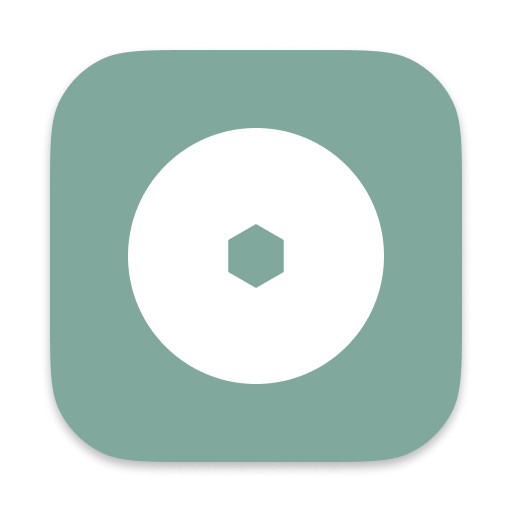
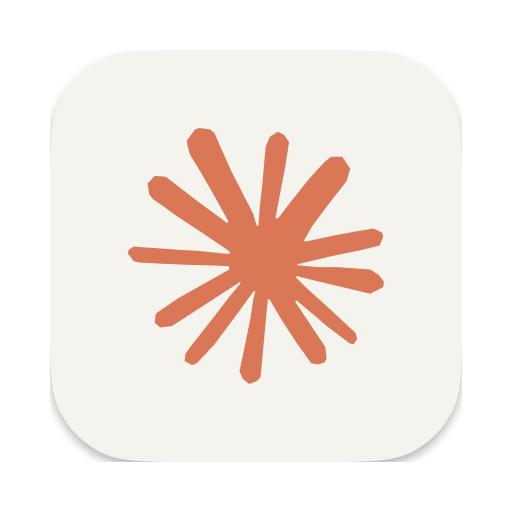
use claude

diff --git a/index.js b/index.js
@@ -16,6 +16,9 @@ const path = require("path");
 const log = require("electron-log");
 const isDev = require("electron-is-dev");
 
+log.transports.file.level = "debug";
+log.transports.console.level = "debug";
+
 const packageJsonPath = path.join(__dirname, "package.json");
 const packageJson = JSON.parse(fs.readFileSync(packageJsonPath, "utf8"));
 
@@ -40,7 +43,7 @@ const windowSizes = {
 
 // Application State
 let mainWindow;
-let chatGptBrowserView;
+let browserView;
 
 // Application Ready
 app.on("ready", async () => {
@@ -98,25 +101,81 @@ function getWindowConfig(size) {
 
 // Setup Browser View
 function setupBrowserView(size) {
-  chatGptBrowserView = new BrowserView({
-    webPreferences: { nodeIntegration: false, contextIsolation: true },
+  browserView = new BrowserView({
+    webPreferences: {
+      nodeIntegration: false,
+      contextIsolation: true,
+      webSecurity: true,
+    },
   });
-  mainWindow.setBrowserView(chatGptBrowserView);
-  chatGptBrowserView.setBounds({
+  mainWindow.setBrowserView(browserView);
+  browserView.setBounds({
     x: 0,
     y: 50,
     width: size.width,
     height: size.height - 50,
   });
-  chatGptBrowserView.webContents.loadURL("https://chat.openai.com/");
-  chatGptBrowserView.webContents.setWindowOpenHandler(({ url }) => {
-    if (url.startsWith("https://chat.openai.com/g/")) {
-      chatGptBrowserView.webContents.loadURL(url);
+  browserView.webContents.loadURL("https://claude.ai/");
+  browserView.webContents.on("dom-ready", (event) => {
+    log.debug("DOM is ready");
+    browserView.webContents
+      .executeJavaScript(
+        `
+        (function() {
+          let alertShown = false;
+
+
+          function showAlert() {
+            if (!alertShown) {
+              alert('Please sign in with email instead.');
+
+              alertShown = true;
+              setTimeout(() => {
+                alertShown = false;
+              }, 500);
+            }
+          }
+  
+          function setupListeners() {
+            console.log('Setting up listeners');
+            
+            document.body.addEventListener('click', (event) => {
+              console.log('Body click event:', event.target);
+              if (event.target.matches('button[data-testid="login-with-google"]')) {
+                console.log('Google login button clicked (from body listener)');
+                showAlert();
+              }
+            }, true);
+          }
+  
+          setupListeners();
+        })();
+      `
+      )
+      .catch((err) => {
+        log.error("Error executing JavaScript:", err);
+      });
+  });
+
+  browserView.webContents.on(
+    "console-message",
+    (event, level, message, line, sourceId) => {
+      log.debug(`Console message from webContents (${level}): ${message}`);
+    }
+  );
+
+  browserView.webContents.setWindowOpenHandler(({ url }) => {
+    if (
+      url.startsWith("https://accounts.google.com/") ||
+      url.includes("google.com/signin/") ||
+      url.includes("accounts.google.com/o/oauth2/")
+    ) {
+      // browserView.webContents.loadURL(url);
+      return { action: "deny" };
     } else {
       shell.openExternal(url);
+      return { action: "deny" };
     }
-
-    return { action: "deny" };
   });
 }
 
@@ -196,8 +255,8 @@ ipcMain.on("set_window_size", (event, sizeKey) => {
   if (size) {
     mainWindow.setSize(size.width, size.height, true);
     store.set("windowSize", size);
-    if (chatGptBrowserView) {
-      chatGptBrowserView.setBounds({
+    if (browserView) {
+      browserView.setBounds({
         x: 0,
         y: 50,
         width: size.width,
@@ -209,15 +268,15 @@ ipcMain.on("set_window_size", (event, sizeKey) => {
 });
 
 ipcMain.on("back", (event, arg) => {
-  chatGptBrowserView.webContents.goBack();
+  browserView.webContents.goBack();
 });
 
 ipcMain.on("forward", (event, arg) => {
-  chatGptBrowserView.webContents.goForward();
+  browserView.webContents.goForward();
 });
 
 ipcMain.on("refresh", () => {
-  chatGptBrowserView.webContents.reload();
+  browserView.webContents.reload();
 });
 
 ipcMain.on("quit", () => {
@@ -231,15 +290,15 @@ app.on("browser-window-focus", () => {
   });
 
   globalShortcut.register("Cmd+R", () => {
-    chatGptBrowserView.webContents.reload();
+    browserView.webContents.reload();
   });
 
   globalShortcut.register("Cmd+Shift+R", () => {
-    chatGptBrowserView.webContents.reload();
+    browserView.webContents.reload();
   });
 
   globalShortcut.register("F5", () => {
-    chatGptBrowserView.webContents.reload();
+    browserView.webContents.reload();
   });
 });
 
@@ -283,4 +342,12 @@ autoUpdater.on("update-downloaded", (event) => {
 
 autoUpdater.on("error", (message) => {
   log.error("@@@ error", message);
+});
+
+process.on("uncaughtException", (error) => {
+  log.error("Uncaught exception:", error);
+  dialog.showErrorBox(
+    "Uncaught Exception",
+    `An unexpected error occurred: ${error.message}`
+  );
 });
